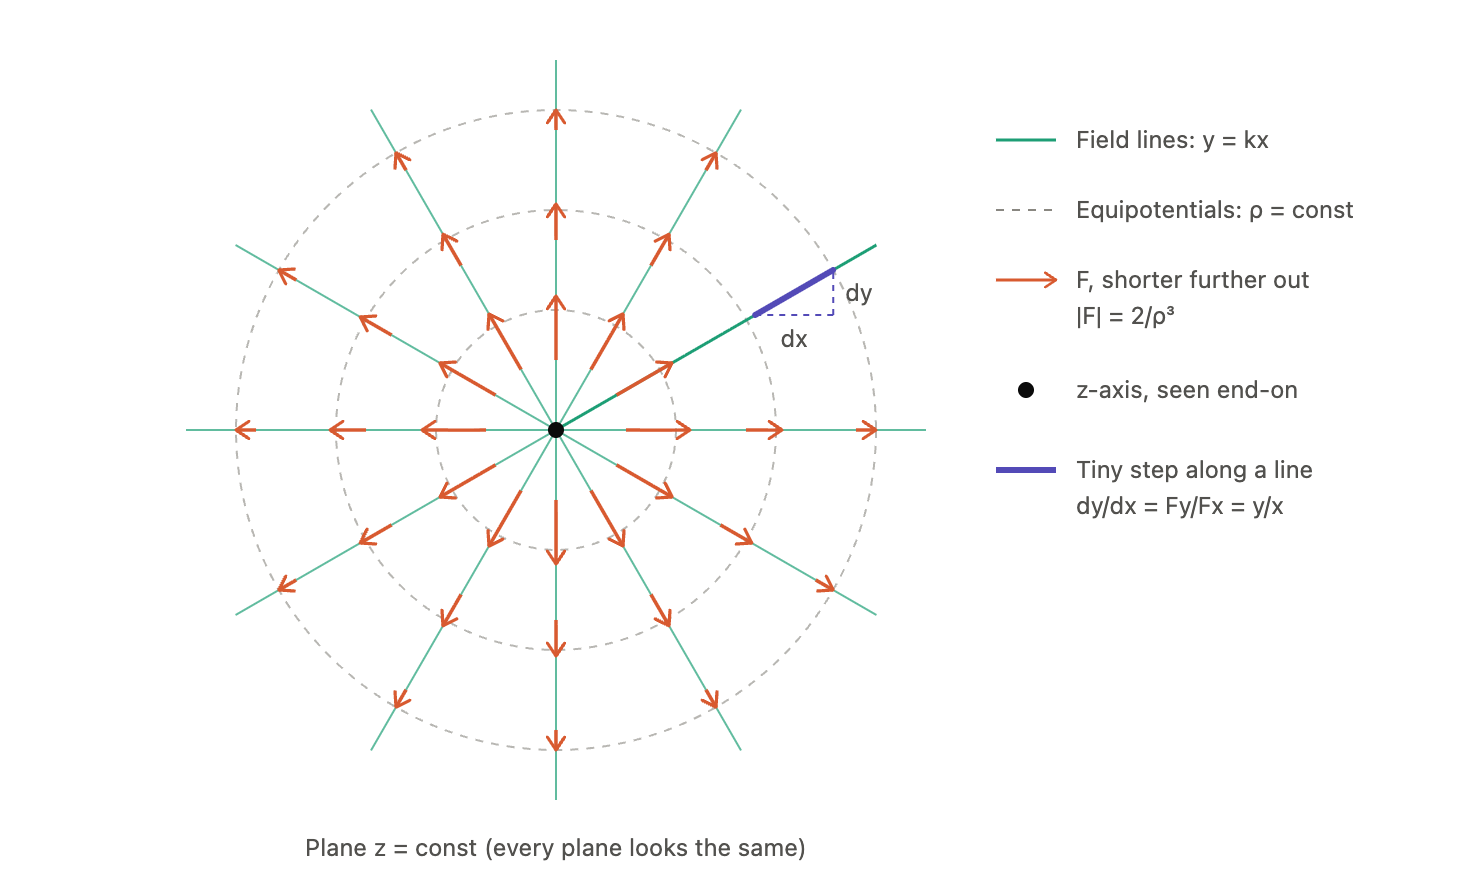
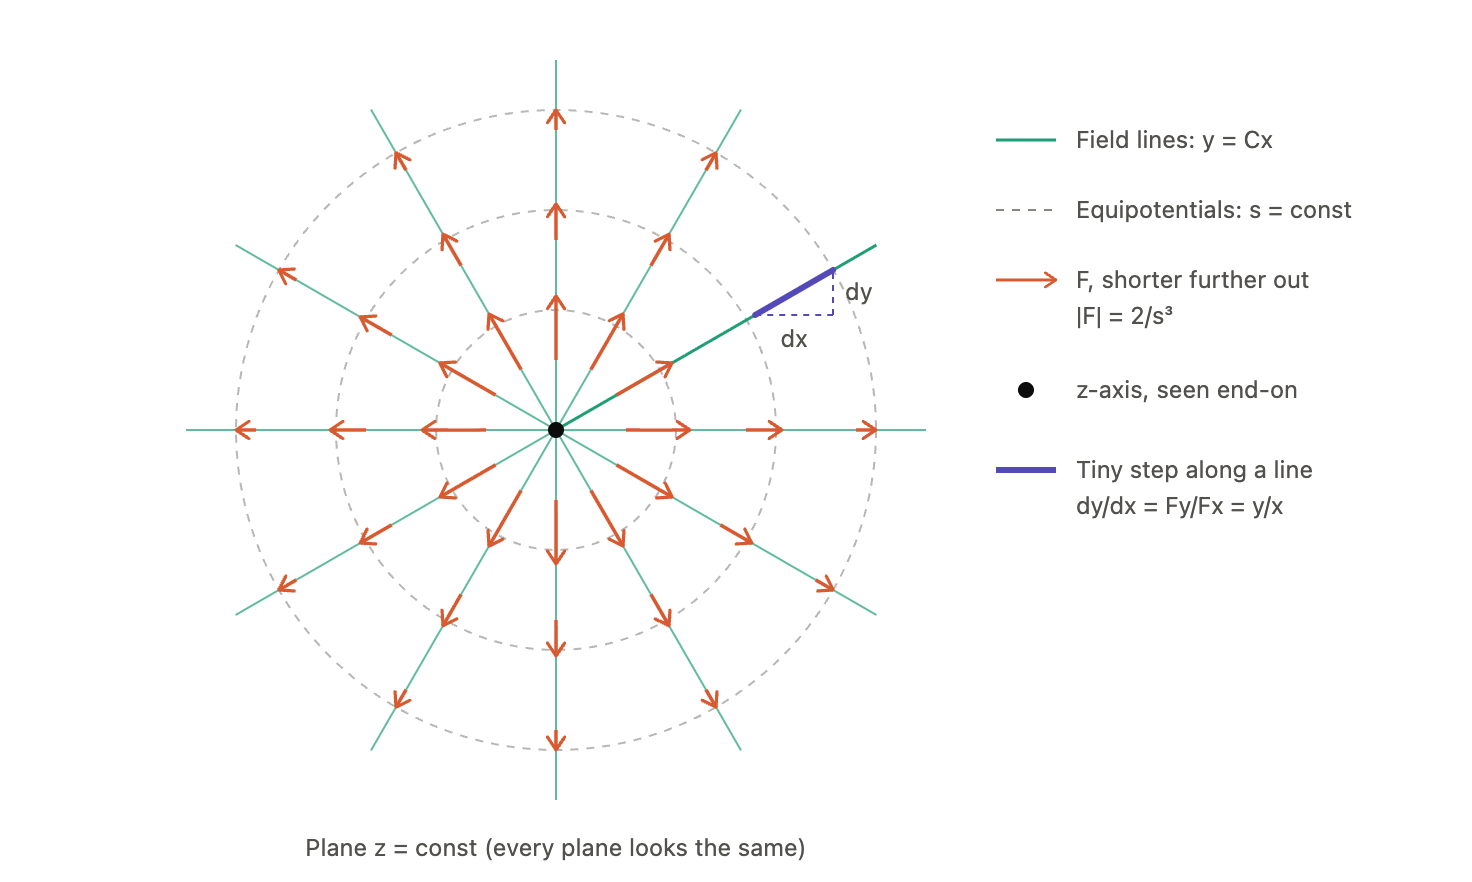
final update of Lab3 solutions

diff --git a/book/2_potential_fields/labs/week3_gravity_and_potential/week3_exersizes_solutions.md b/book/2_potential_fields/labs/week3_gravity_and_potential/week3_exersizes_solutions.md
@@ -41,7 +41,7 @@ c) The asteroid actually has the irregular shape shown below. The cavity is a sp
 a) No. The shell exerts no net pull anywhere inside it, so the pebble stays at rest. Draw a thin double cone through $P$: it cuts a small patch on the near side and a larger patch on the far side. The mass of each patch grows as the square of its distance from $P$, while its pull falls off as one over that distance squared, so the two pulls are equal and opposite. The nearer wall is closer, but it has less mass inside the cone. This exact cancellation relies on the inverse-square law. 
  
 b)
-```{figure} figures/hollow_asteroid_spherical_solution.png
+```{figure} figures/hollow_asteroid_spherical_solution2.png
 :width: 90%
 ```
 ```{math}
@@ -229,7 +229,21 @@ With $s = \sqrt{x^2+y^2}$, the distance from the $z$-axis, the magnitude is
 |\vec{F}| = \frac{2\sqrt{x^2+y^2}}{\left(x^2+y^2\right)^2} = \frac{2s}{s^4} = \frac{2}{s^3}.
 ```
 
-(b) $\vec{F}$ is parallel to $x\,\hat{x} + y\,\hat{y}$, which points directly away from the $z$-axis. The field lines follow the direction of $\vec{F}$, so in a plane $z = $ constant
+(b) A field line is a curve whose direction at every point matches $\vec{F}$. In the $x,y$-plane, the direction of a curve is given by its slope, $dy/dx$. The direction of the vector $\vec{F} = (F_x, F_y)$ is also a slope ("rise over run"), namely $F_y/F_x$. For the curve to follow the field, the two slopes must be equal:
+
+```{math}
+\underbrace{\frac{dy}{dx}}_{\text{slope of the curve}} = \underbrace{\frac{F_y}{F_x}}_{\text{slope of the field}}
+```
+
+Equivalently, a small step $(dx, dy)$ along the field line must point in the same direction as $\vec{F}$, so its components are in the same ratio:
+
+```{math}
+\frac{dy}{dx} = \frac{F_y}{F_x}.
+```
+
+This is a differential equation, and its solutions are the field lines.
+
+$\vec{F}$ is parallel to $x\,\hat{x} + y\,\hat{y}$, which points directly away from the $z$-axis. The field lines follow the direction of $\vec{F}$, so in a plane $z = $ constant
 
 ```{math}
 \frac{dy}{dx} = \frac{F_y}{F_x} = \frac{y}{x}
@@ -268,7 +282,7 @@ The gradient of $\Phi$ is perpendicular to any surface of constant $\Phi$, and $
 Go around the rectangle counterclockwise, as in the figure. The condition $x_1 > 0$ keeps the rectangle away from the $z$-axis, where $\vec{F}$ is undefined, so every integral exists.
 
 ```{figure} figures/rectangle_conservative.png
-:width: 32%
+:width: 55%
 ```
 
 Each integral uses the antiderivative $\int \dfrac{2u\,du}{(u^2+c^2)^2} = -\dfrac{1}{u^2+c^2}$.
